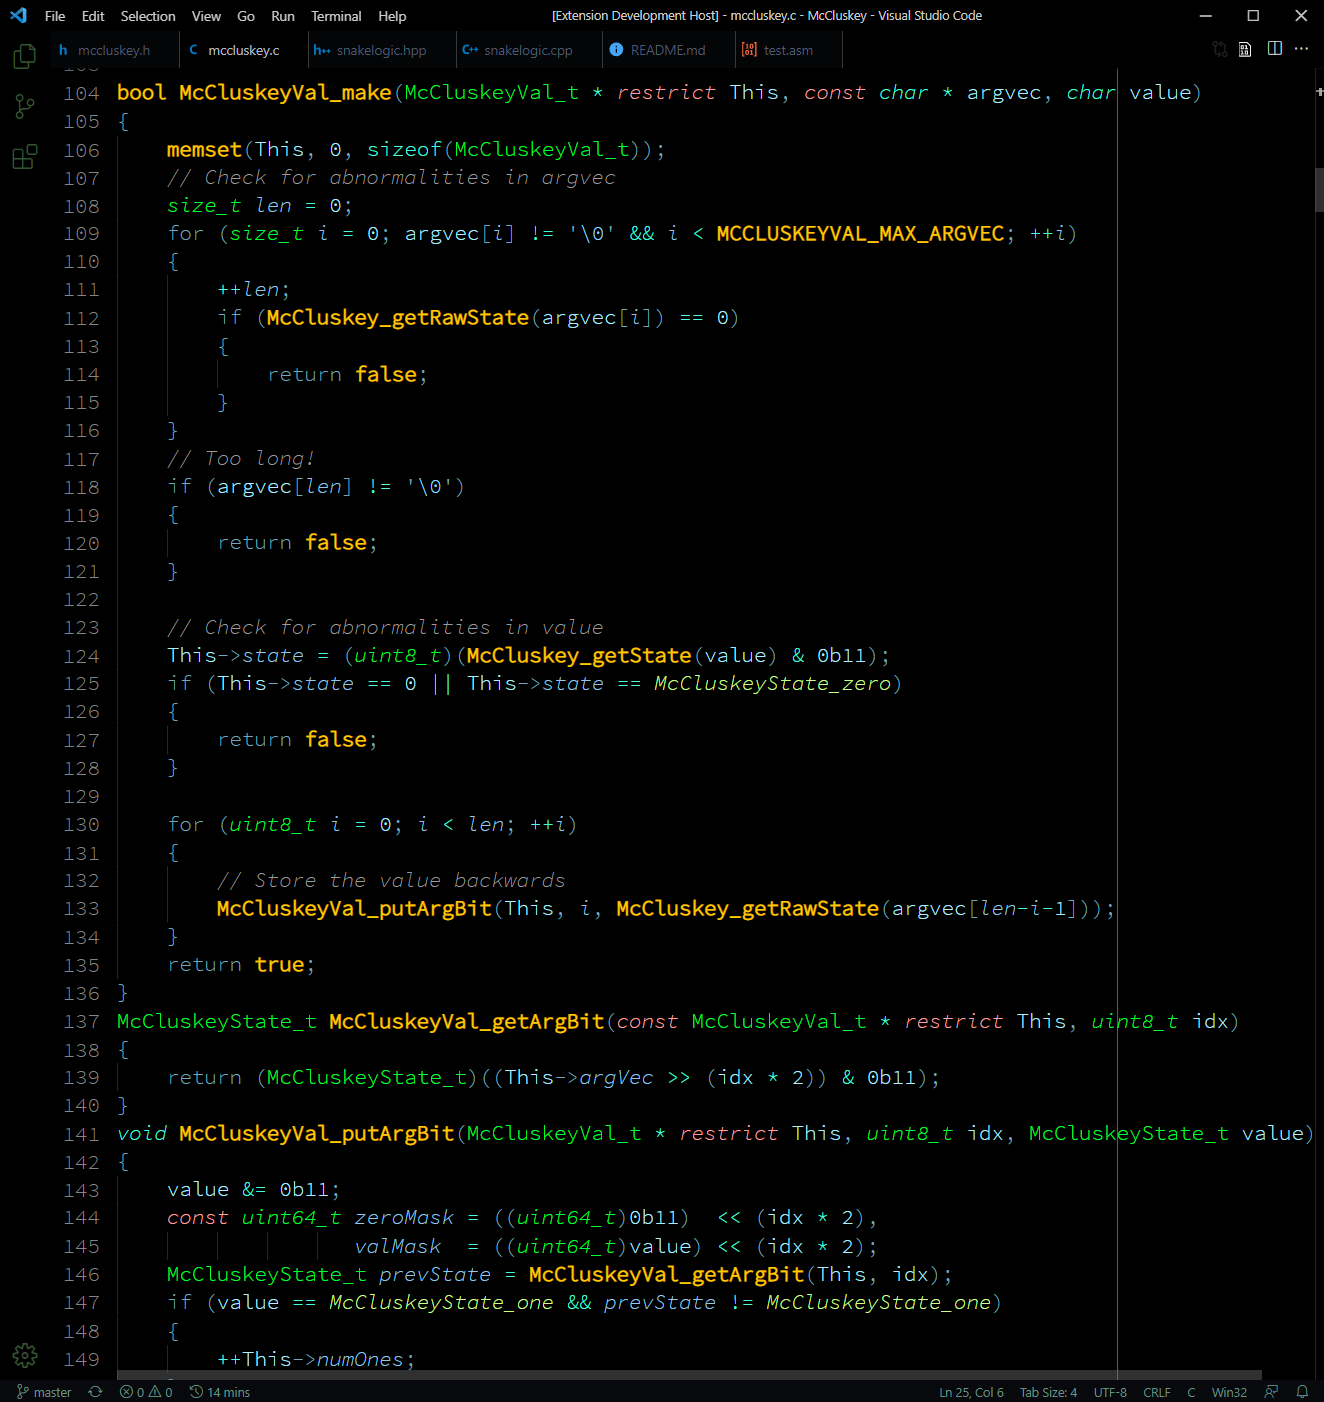
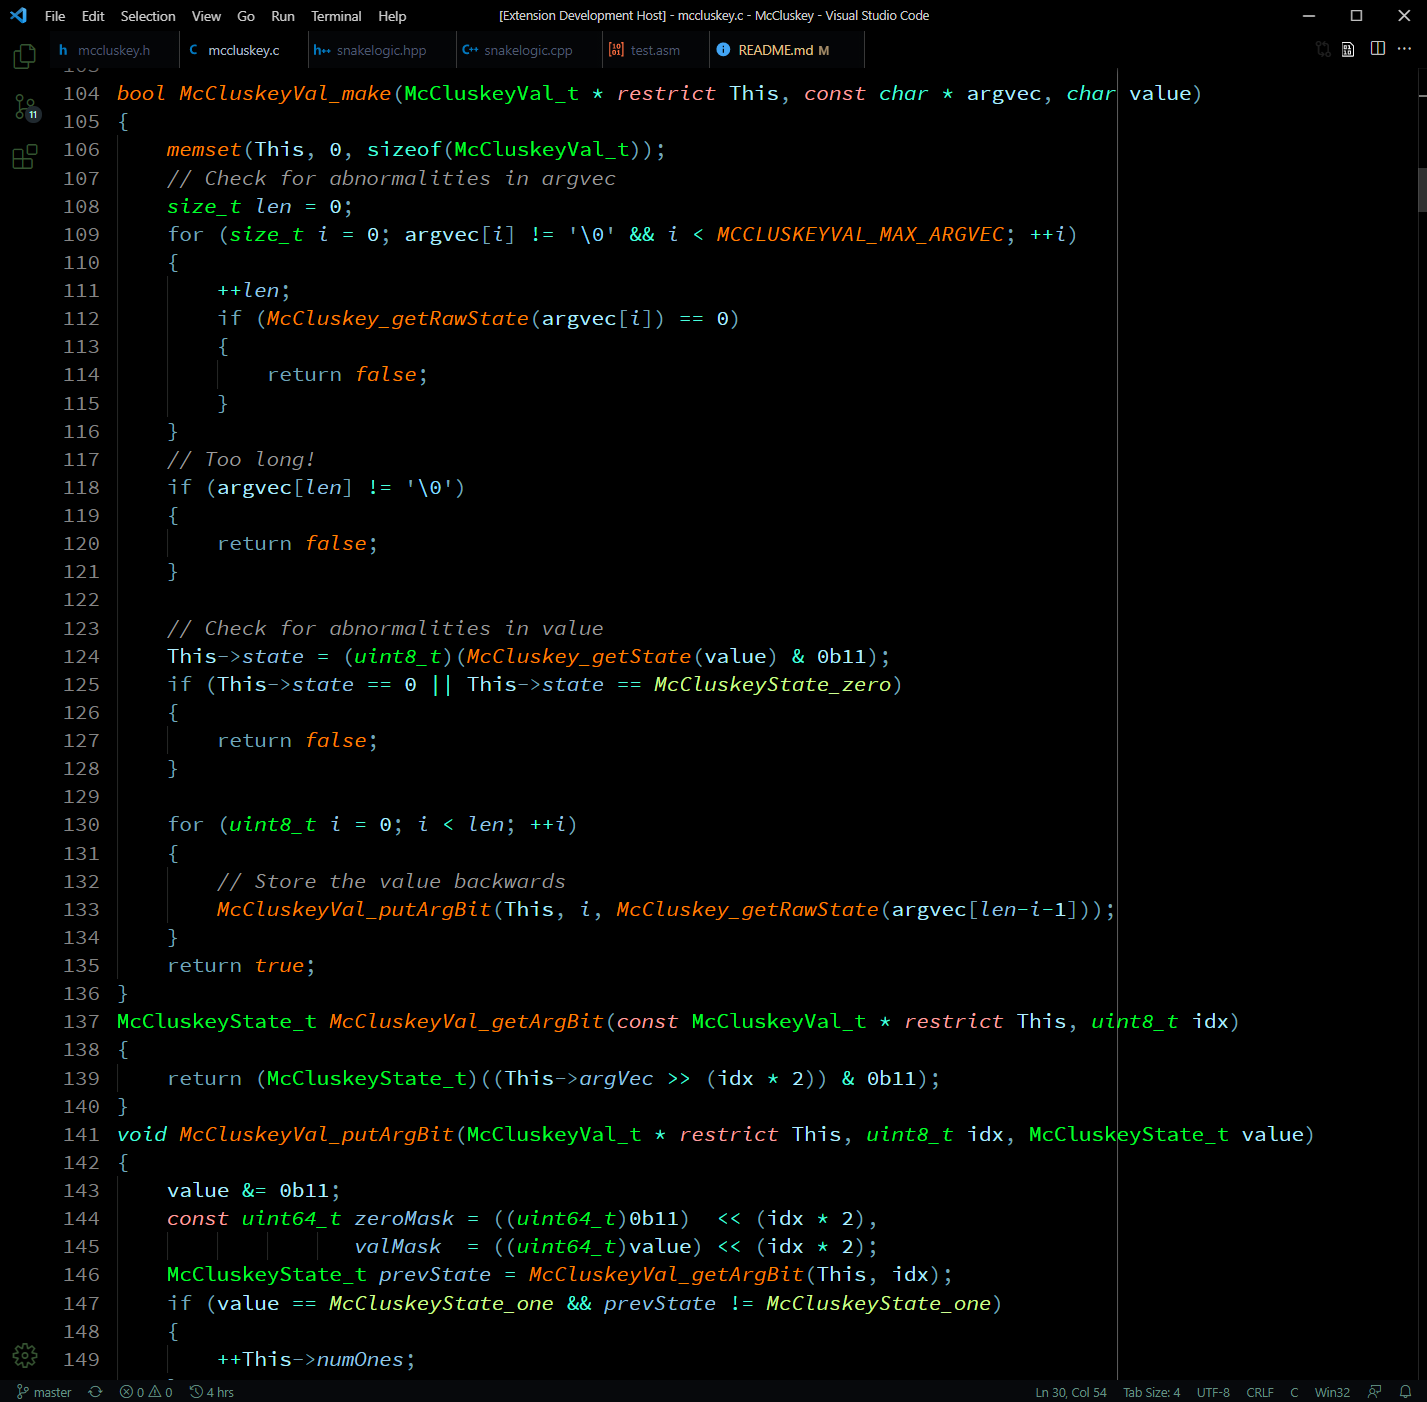
Update 0.8

diff --git a/README.md b/README.md
@@ -5,6 +5,9 @@ A colorful theme utilising 2 primary colors - green and blue.
 
 # Changelog
 
+* v 0.8.0
+	* make functions *italic* and more orange
+
 * v 0.7.0
 	* make default storage types *italic*
 
